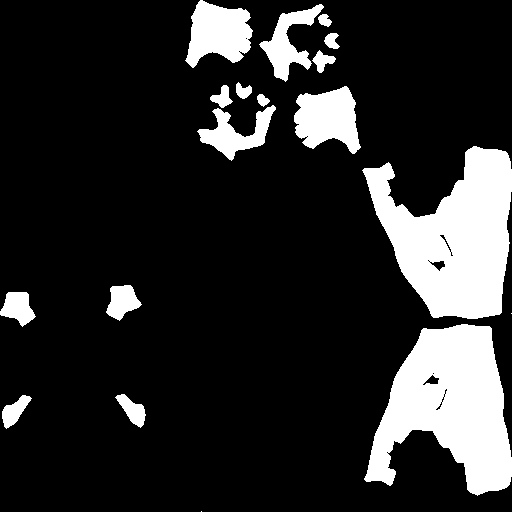
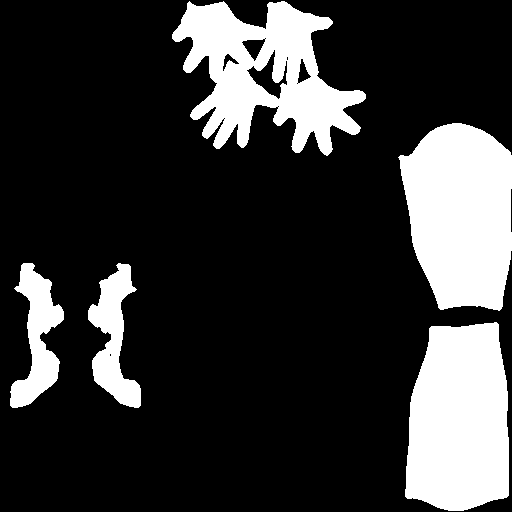
char3d: fix the female hero's skin through her tunic, and correct the check first
TWO things were wrong and only one of them was the asset.

THE CHECK counted skin drawing over BACKGROUND as poke-through. The female
ranger set is cut with a bare midriff and open shoulders -- the vendor drew it
that way -- and G6 called the costume a defect. Poke-through means skin in front
of CLOTH, so the diff now requires cloth behind the pixel. That alone took the
male from 66 px to 3 and the female from 1,116 to 951, which is the useful part:
it separated the costume from the defect instead of arguing about which it was.

THE ASSET was the other 951. Shoulders and the belt line, every pixel of it with
cloth behind it, on a body and a wardrobe the vendor fitted to each other. The
female masks were baked at the male's 0.035 and that is simply too tight for how
her tunic sits.

Baked at 0.05: ranger 951 -> 4 px, peasant 685 -> 2, and G7 DOES NOT MOVE --
24 px and 247 px, exactly as before. That pair is the whole argument. Widening a
mask is the move I was rightly called out for two commits ago, and the thing
that makes it legitimate here rather than a cover-up is that the skin being
deleted is skin that was IN FRONT OF CLOTH, which is what hidden-surface removal
is for, and G7 proves nothing extra was taken. 0.07 is identical, so the effect
saturates and the smaller value is kept.

The male stays at 0.035. The split is measured, not preferred, and it is written
into the bake script beside both numbers.
[…]

diff --git a/scripts/bake_body_masks.py b/scripts/bake_body_masks.py
@@ -72,9 +72,15 @@ MAX_DIST = float(os.environ.get("MASK_RAY", "0.06"))
 ## the cloth is tight — true of a garment modelled against the body wearing it,
 ## and false of a garment refitted onto a different torso, where the skin can
 ## stand clear OUTSIDE the cloth and never come within 3.5 cm of it. The
-## shipping body keeps 0.035; a candidate can be baked and MEASURED at another
-## value (tests/body_audit.tscn, goal G6) instead of the number being argued
-## about.
+## MALE ships at 0.035 and FEMALE at 0.05, and that is a measured split rather
+## than a preference. At 0.035 the female hero had 951 px of skin through her
+## ranger tunic and 685 through the peasant one, against the male's 3 and 1 —
+## shoulders and the belt line, every pixel of it with cloth BEHIND it. At 0.05
+## both fall to 4 and 2 while G7 does not move at all (24 px and 247 px, same as
+## before), which is the pair of numbers that separates a fix from a cover-up:
+## the skin being deleted is skin that was in front of cloth, which is what
+## hidden-surface removal is FOR. 0.07 is identical to 0.05, so the effect
+## saturates and the smaller value is the one kept.
 NEAR = float(os.environ.get("MASK_NEAR", "0.035"))
 ## Pixels of dilation. The mask is sampled per fragment, so a boundary that is
 ## exactly right in UV space still shows a rim of skin where a texel straddles

diff --git a/godot/docs/KnownIssues.md b/godot/docs/KnownIssues.md
@@ -51,21 +51,3 @@ collapses to a column. Give it an explicit width and left-align inside it.
 **`Button` never consults a script's `_get_minimum_size()`.** Its native
 implementation wins, so a `class_name X extends Button` that overrides the
 virtual has written dead code. Set `custom_minimum_size` instead.
-
-## The female hero's skin shows through her tunic
-
-**Found by** `tests/body_audit.tscn` G6, the first time anything measured the
-FEMALE body dressed. 1,116 px of skin through the ranger cut and 931 through the
-peasant one, against 66 and 10 for the male — and the map
-(`pack-f_ranger_poke.png`) shows solid areas at both shoulders and across the
-waist, not the hairline rim a silhouette edge gives.
-
-Both the body and the garments are the pack's own, fitted to each other by the
-vendor, so this is not a refit artifact. The masks are not over-reaching either:
-the same configuration scores 24 px on G7, so nothing is being deleted that
-should not be.
-
-**Not fixed.** It is a pre-existing defect in shipping content that nobody had
-looked for, and the audit is red until it is dealt with. Naming it here rather
-than raising a threshold to make the red go away, which would be the same error
-as widening `MASK_NEAR` to hide the candidate's fit problem.
